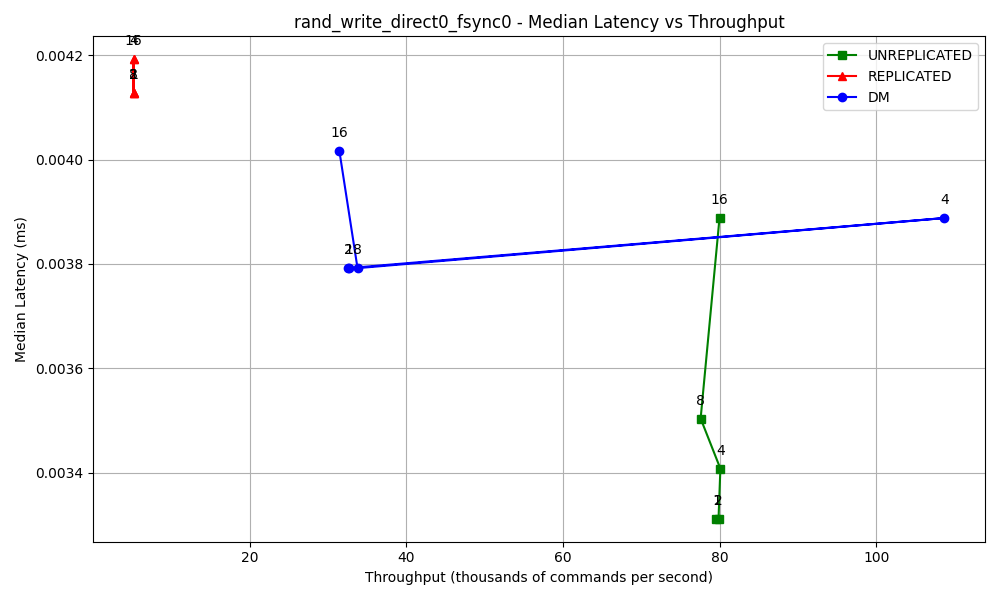
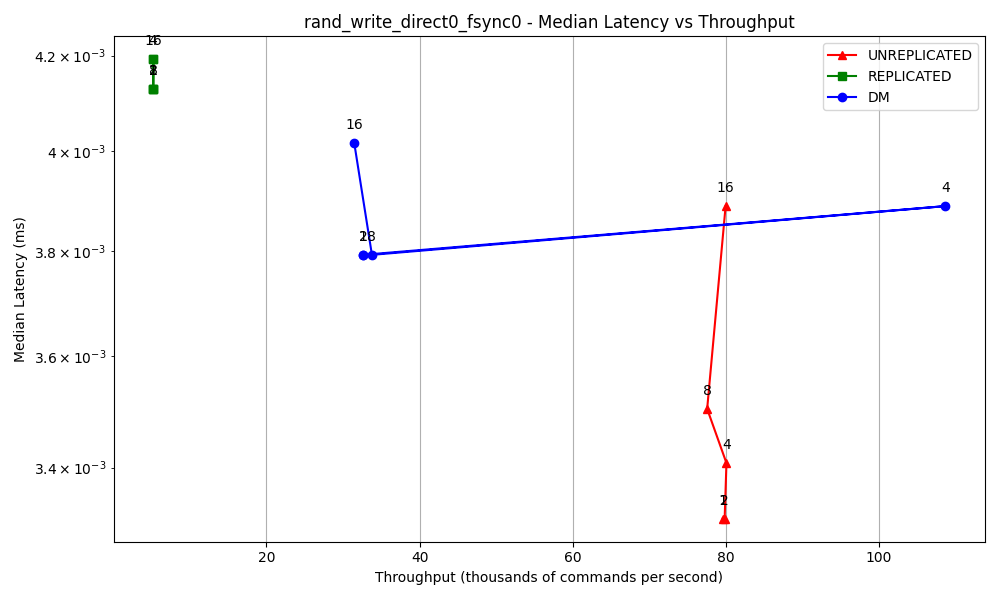
feat: apply log to y axis

diff --git a/src/tools/benchmarking/fio/plot_fio_results.py b/src/tools/benchmarking/fio/plot_fio_results.py
@@ -17,13 +17,15 @@ def read_fio_json_results(results_dir):
             filename_parts = filename_without_extension.split('_')
             # Extract the category (e.g., 'DM', 'UNREPLICATED', 'REPLICATED', 'ROLLBACCINE')
             category = filename_parts[0]
+            if category not in ['DM', 'UNREPLICATED', 'REPLICATED', 'ROLLBACCINE']:
+                print(f"Unknown category '{category}' in filename '{filename}'. Skipping.")
+                continue
             try:
                 threads_index = filename_parts.index('threads')
                 base_job_name_parts = filename_parts[1:threads_index]
                 base_job_name = '_'.join(base_job_name_parts)
                 thread_count = int(filename_parts[threads_index + 1])
             except ValueError:
-                # Handle error if 'threads' is not in filename_parts
                 print(f"Error parsing filename {filename}")
                 continue
 
@@ -87,7 +89,20 @@ def extract_performance_data(results):
         }
     return performance_data
 
-def plot_latency_vs_throughput_per_job(performance_data, output_dir, markers, colors):
+def plot_latency_vs_throughput_per_job(performance_data, output_dir):
+    markers = {
+        'DM': 'o',
+        'UNREPLICATED': '^',
+        'REPLICATED': 's',
+        'ROLLBACCINE': 'd'
+    }
+    colors = {
+        'DM': 'blue',
+        'UNREPLICATED': 'red',
+        'REPLICATED': 'green',
+        'ROLLBACCINE': 'orange'
+    }
+
     for base_job_name in performance_data:
         plt.figure(figsize=(10, 6))
         ax = plt.gca()
@@ -112,6 +127,8 @@ def plot_latency_vs_throughput_per_job(performance_data, output_dir, markers, co
         ax.set_title(f'{base_job_name} - Median Latency vs Throughput')
         ax.legend()
         ax.grid(True)
+        # log for y axis
+        ax.set_yscale('log')
         plt.tight_layout()
         # Save the figure
         output_file = os.path.join(output_dir, f'{base_job_name}_latency_vs_throughput.png')
@@ -136,30 +153,6 @@ def main():
     for job_name, data in performance_data.items():
         print(f"{job_name}: {data}")
 
-    # Collect categories
-    categories = set()
-    for base_job_name in performance_data:
-        categories.update(performance_data[base_job_name].keys())
-
-    categories = sorted(categories)
-    markers_list = ['o', '^', 's', 'd', '*', '+', 'x', 'v', '<', '>', 'p', 'h']
-    colors_list = ['blue', 'red', 'green', 'orange', 'purple', 'brown', 'pink', 'gray', 'olive', 'cyan', 'magenta', 'yellow']
-
-    # Ensure we have enough markers and colors
-    if len(categories) > len(markers_list):
-        print("Not enough markers to assign to categories.")
-        return
-
-    if len(categories) > len(colors_list):
-        print("Not enough colors to assign to categories.")
-        return
-
-    markers = {}
-    colors = {}
-    for idx, category in enumerate(categories):
-        markers[category] = markers_list[idx % len(markers_list)]
-        colors[category] = colors_list[idx % len(colors_list)]
-
     # Create an output directory for graphs
     output_dir = os.path.join(os.path.dirname(__file__), '..', '..', '..', '..', 'results', 'graphs')
     os.makedirs(output_dir, exist_ok=True)
@@ -167,9 +160,7 @@ def main():
     # Plot Latency vs Throughput per job
     plot_latency_vs_throughput_per_job(
         performance_data,
-        output_dir=output_dir,
-        markers=markers,
-        colors=colors
+        output_dir=output_dir
     )
 
 if __name__ == "__main__":
